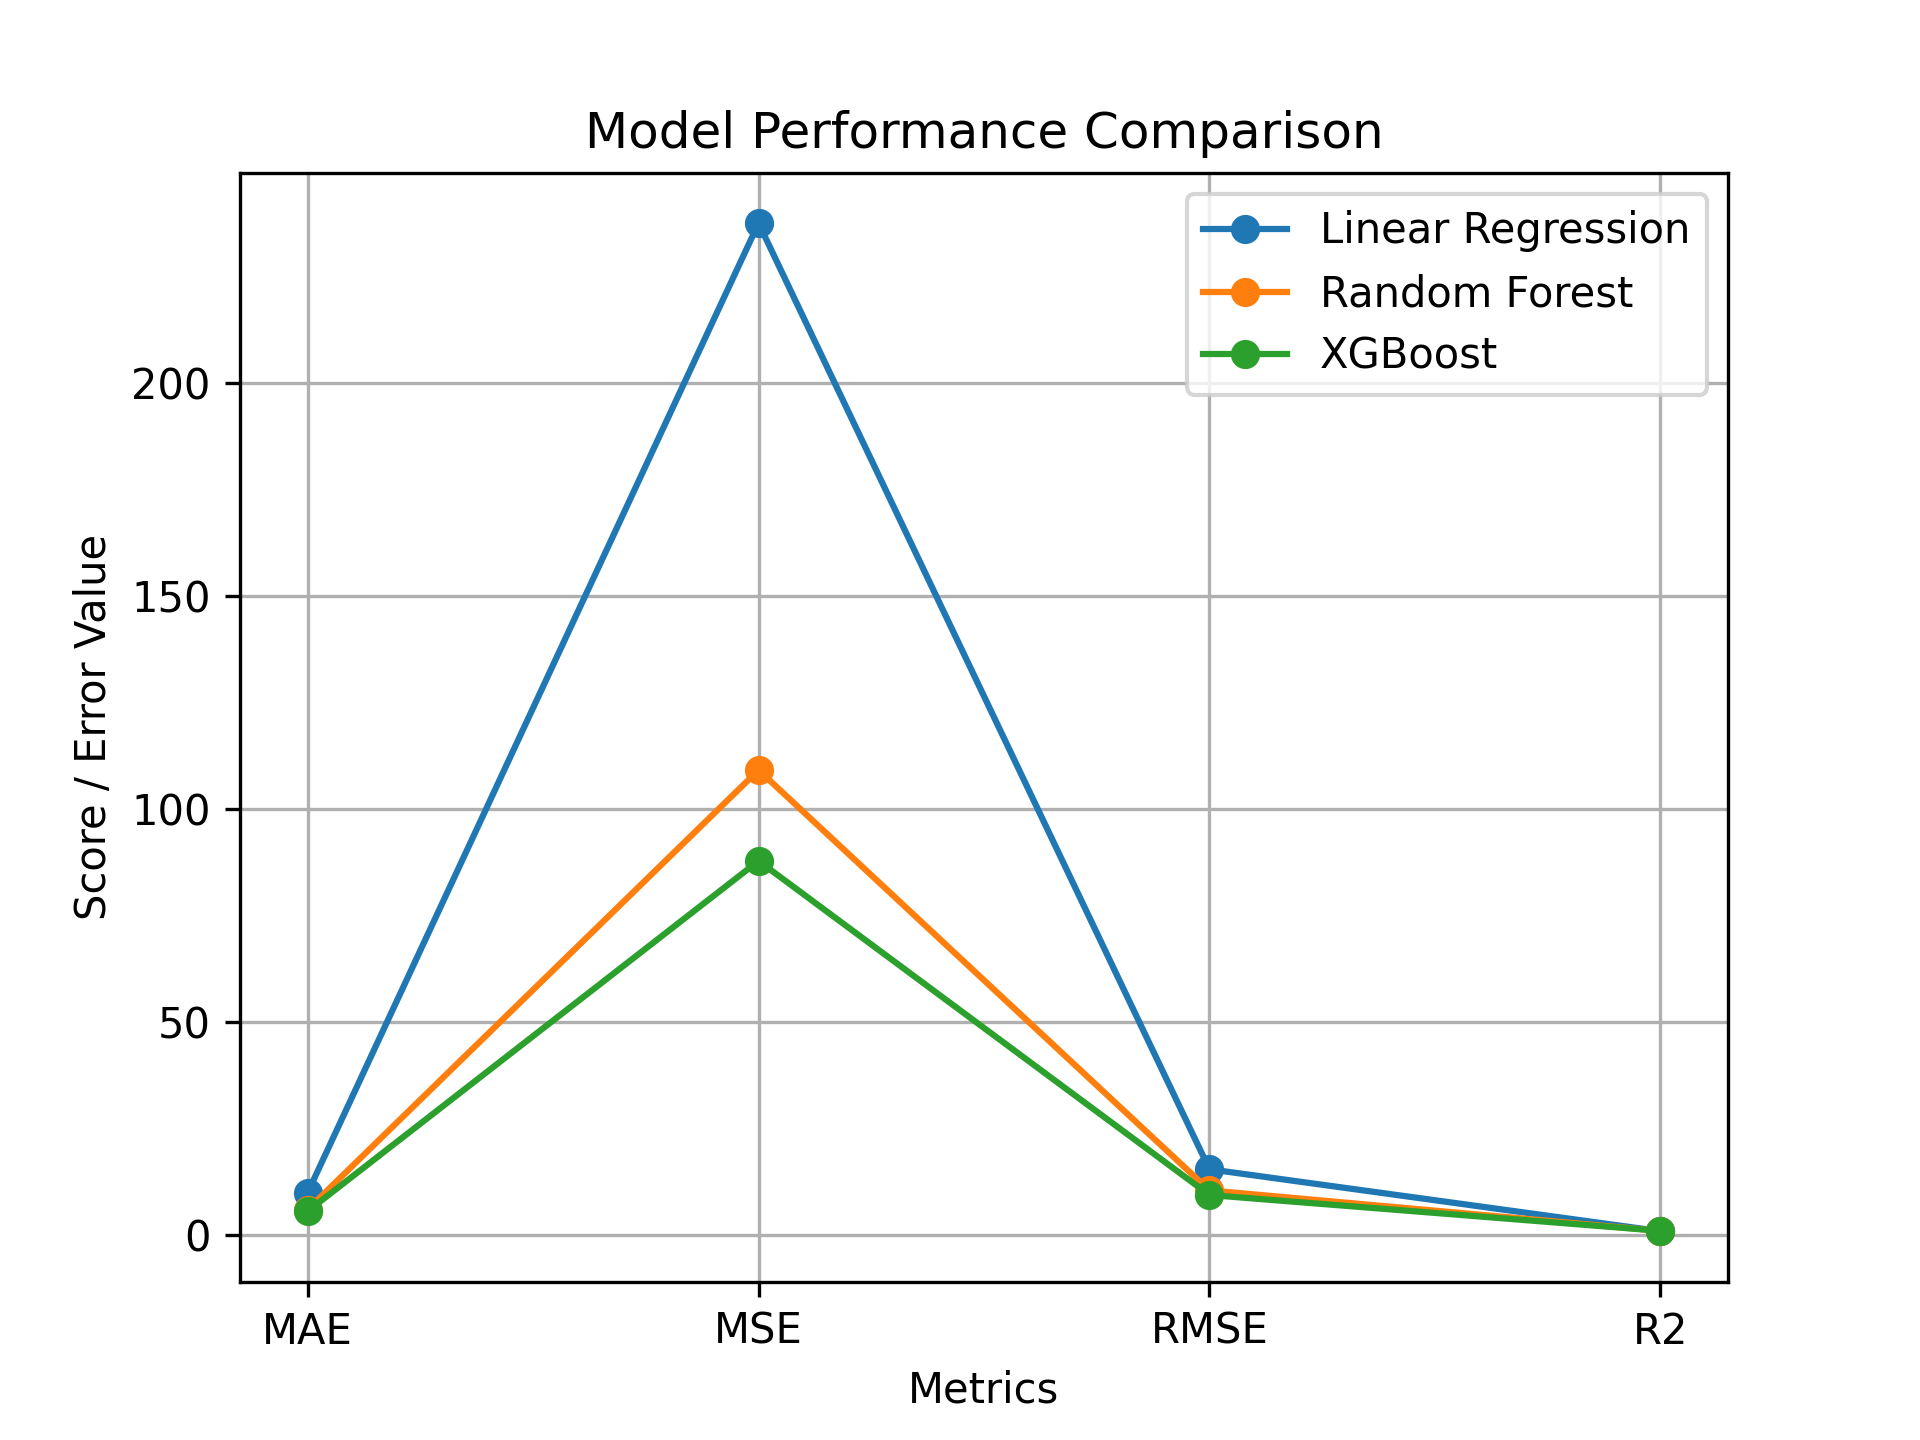
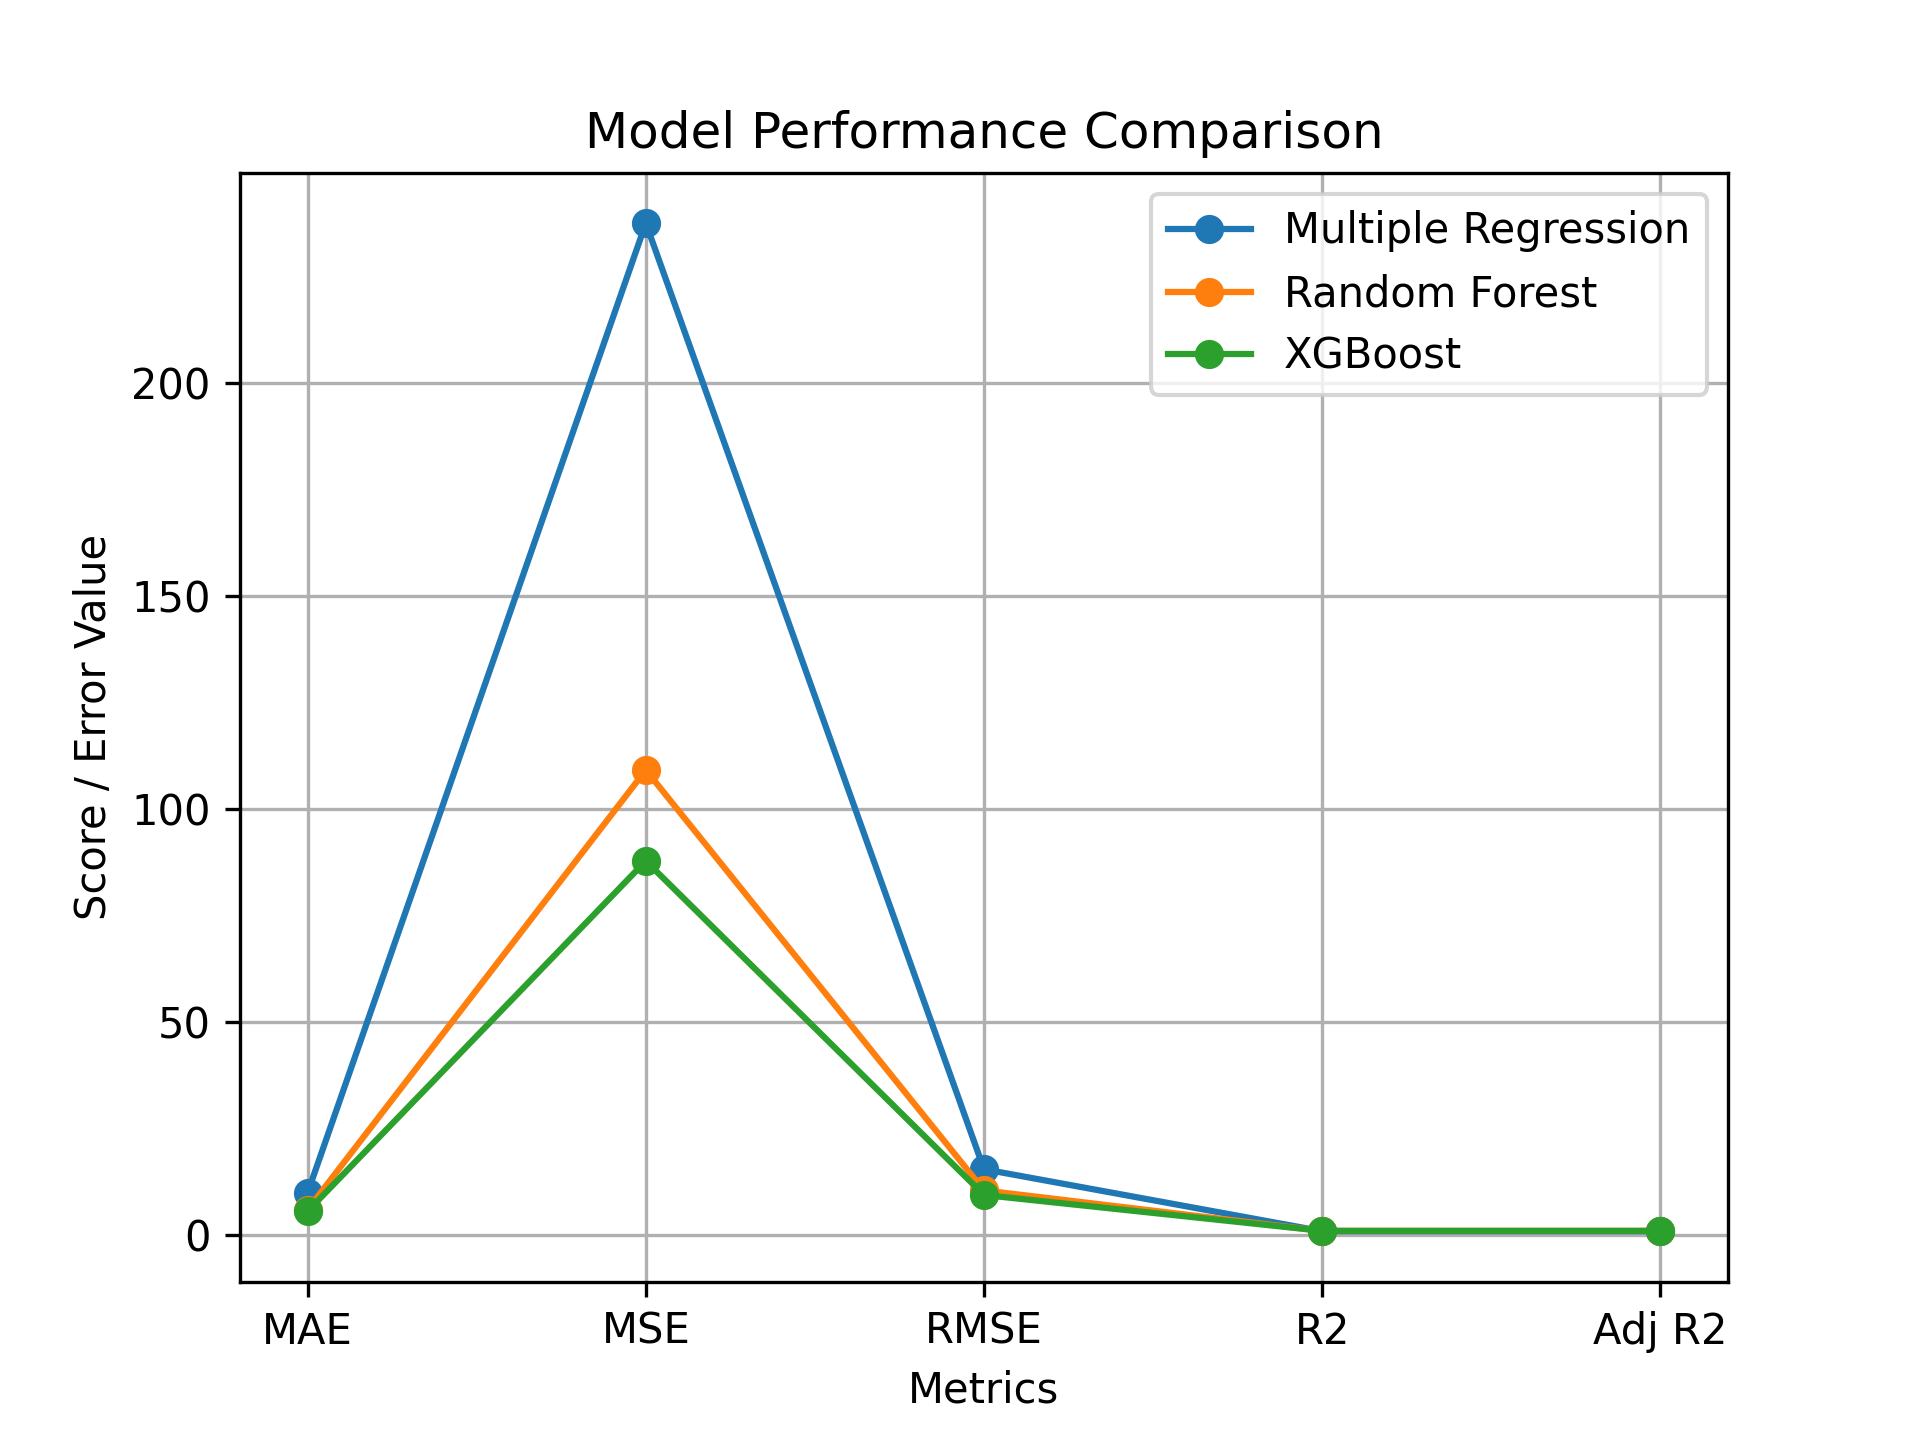
computed adjusted r2

diff --git a/find_outliers.py b/find_outliers.py
@@ -1,0 +1,53 @@
+import pandas as pd
+import numpy as np
+from scipy.stats import zscore
+import matplotlib.pyplot as plt
+
+df = pd.read_csv("final_data_set.csv")
+
+
+Q1 = df.quantile(0.25)
+Q3 = df.quantile(0.75)
+
+IQR = Q3 - Q1
+
+iqr_outliers = ((df < (Q1 - 1.5 * IQR)) | (df > (Q3 + 1.5 * IQR)))
+
+iqr_counts = iqr_outliers.sum()
+
+print("IQR Outliers per column:")
+print(iqr_counts)
+
+
+numeric_df = df.select_dtypes(include=[np.number])
+
+z_scores = np.abs(zscore(numeric_df))
+
+z_outliers = (z_scores > 3)
+
+z_counts = pd.Series(z_outliers.sum(axis=0), index=numeric_df.columns)
+
+print("\nZ-Score Outliers per column:")
+print(z_counts)
+
+with open("outlier_results.txt", "w") as f:
+    f.write("IQR Outliers per column:\n")
+    f.write(iqr_counts.to_string())
+    f.write("\n\nZ-Score Outliers per column:\n")
+    f.write(z_counts.to_string())
+
+fig, ax = plt.subplots(2, 1, figsize=(12, 10))
+
+ax[0].bar(iqr_counts.index, iqr_counts.values)
+ax[0].set_title("IQR Outliers per Column")
+ax[0].set_ylabel("Number of Outliers")
+ax[0].tick_params(axis='x', rotation=90)
+
+ax[1].bar(z_counts.index, z_counts.values)
+ax[1].set_title("Z-Score Outliers per Column")
+ax[1].set_ylabel("Number of Outliers")
+ax[1].tick_params(axis='x', rotation=90)
+
+plt.tight_layout()
+plt.savefig("outlier_comparison.png")
+plt.show()

diff --git a/compute_adjusted_r2.py b/compute_adjusted_r2.py
@@ -1,0 +1,30 @@
+import pandas as pd
+from sklearn.model_selection import train_test_split   
+from sklearn.metrics import r2_score
+import joblib
+df = pd.read_csv('final_data_set.csv')
+X = df.drop(columns=["ARRIVAL_DELAY"])
+y = df["ARRIVAL_DELAY"]
+X_train, X_test, y_train, y_test = train_test_split(X, y, test_size=0.2, random_state=42)
+lr_model = joblib.load('lr_model.pkl')
+rf_model = joblib.load('rf_model.pkl')  
+xgb_model = joblib.load('xgb_model.pkl')
+lr_pred = lr_model.predict(X_test)
+rf_pred = rf_model.predict(X_test)     
+xgb_pred = xgb_model.predict(X_test)
+lr_r2 = r2_score(y_test, lr_pred)
+rf_r2 = r2_score(y_test, rf_pred)
+xgb_r2 = r2_score(y_test, xgb_pred)
+n = len(X_test)
+p = X_test.shape[1]
+lr_adj_r2 = 1 - (1 - lr_r2) * (n - 1) / (n - p - 1)
+rf_adj_r2 = 1 - (1 - rf_r2) * (n - 1) / (n - p - 1)
+xgb_adj_r2 = 1 - (1 - xgb_r2) * (n - 1) / (n - p - 1)
+print(f"Linear Regression Adjusted R²: {lr_adj_r2:.4f}")
+print(f"Random Forest Adjusted R²: {rf_adj_r2:.4f}")
+print(f"XGBoost Adjusted R²: {xgb_adj_r2:.4f}")
+
+with open('adjusted_r2_comparison.txt', 'w') as f:
+    f.write(f"Linear Regression Adjusted R²: {lr_adj_r2:.4f}\n")
+    f.write(f"Random Forest Adjusted R²: {rf_adj_r2:.4f}\n")
+    f.write(f"XGBoost Adjusted R²: {xgb_adj_r2:.4f}\n")

diff --git a/model_comp.py b/model_comp.py
@@ -1,31 +1,34 @@
 import matplotlib.pyplot as plt
 
-metrics = ["MAE", "MSE", "RMSE", "R2"]
+metrics = ["MAE", "MSE", "RMSE", "R2", "Adj R2"]
 
 linear_regression = [
 9.91112951694123,
 237.51025764339767,
 15.411367805726968,
-0.8716984436511174
+0.8716984436511174,
+0.87
 ]
 
 random_forest = [
 5.945462794745251,
 109.12890529575853,
 10.44647812881253,
-0.9410492475945287
+0.9410492475945287,
+0.94
 ]
 
 xgboost = [
 5.557383152925011,
 87.79879467470424,
 9.370101102693836,
-0.9525716304779053
+0.9525716304779053,
+0.95
 ]
 
 plt.figure()
 
-plt.plot(metrics, linear_regression, marker='o', label="Linear Regression")
+plt.plot(metrics, linear_regression, marker='o', label="Multiple Regression")
 plt.plot(metrics, random_forest, marker='o', label="Random Forest")
 plt.plot(metrics, xgboost, marker='o', label="XGBoost")
 
